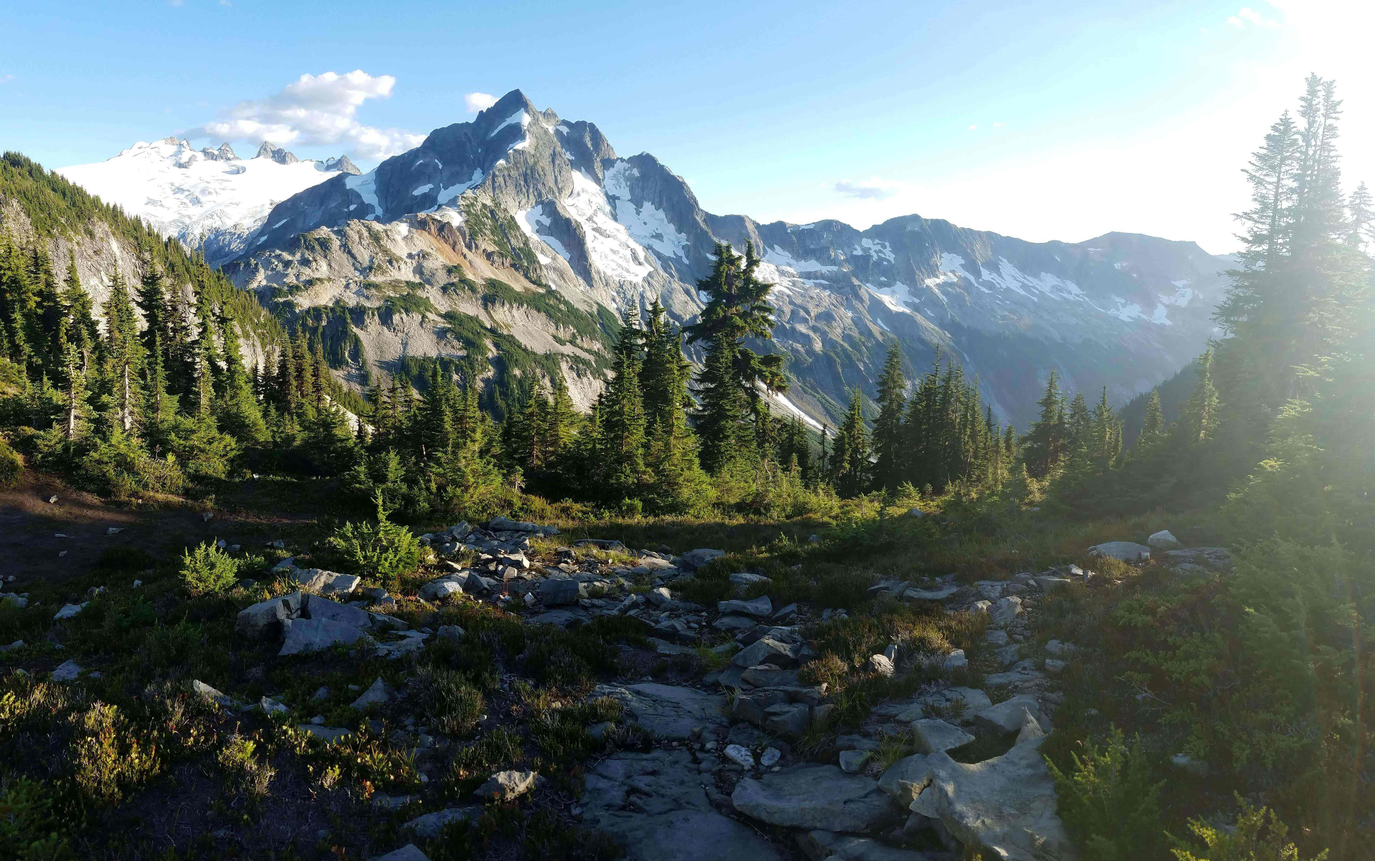
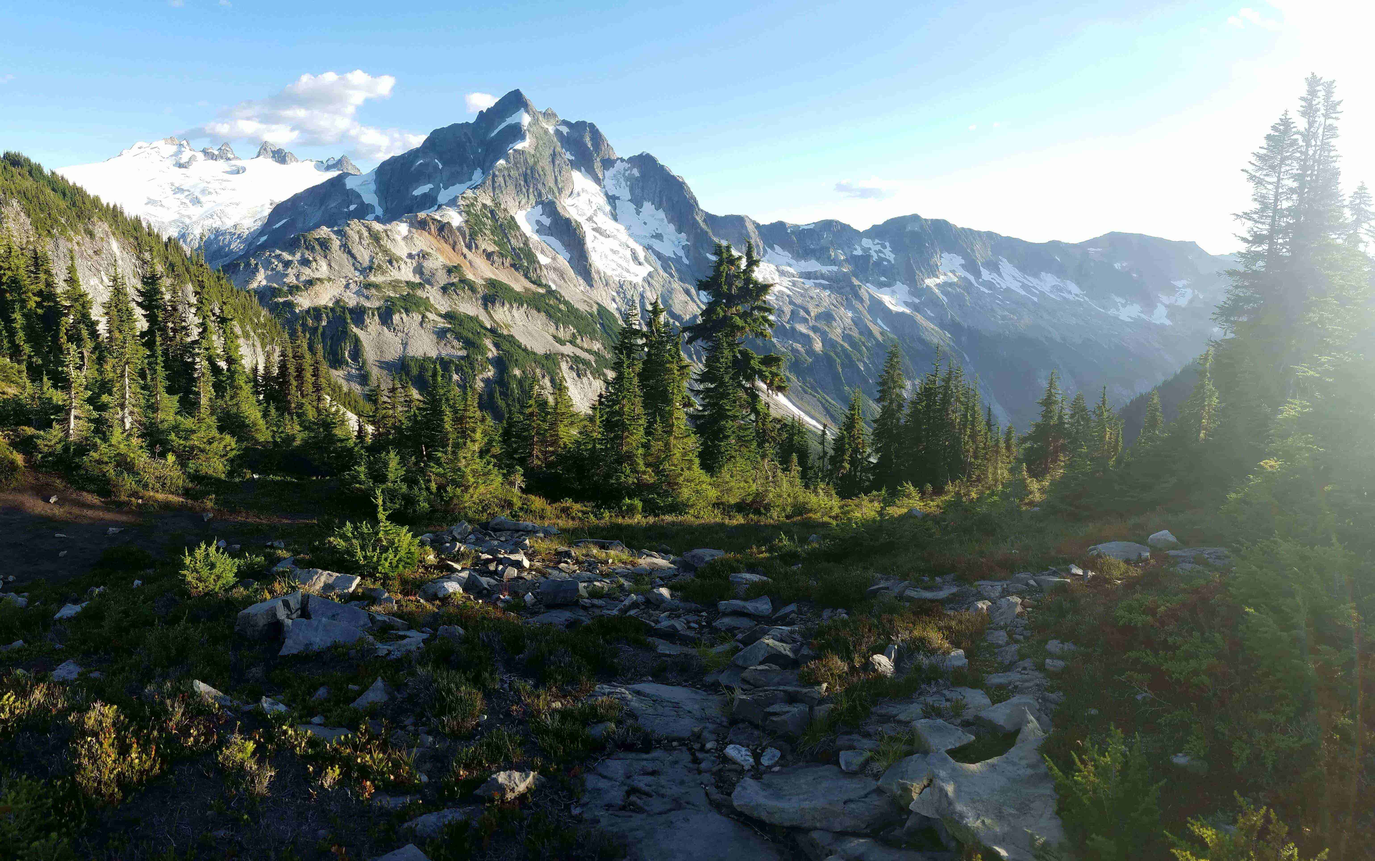
image background resolution changed

diff --git a/src/redux/store/background-img.js b/src/redux/store/background-img.js
@@ -1,11 +1,13 @@
 const IMGS_DATA = [
   "./img/img-background/photo0.jpg",
-  "./img/img-background/photo1.jpg",
-  "./img/img-background/photo2.jpg",
-  "./img/img-background/photo3.jpg",
-  "./img/img-background/photo4.jpg",
-  "./img/img-background/photo5.jpg",
-  "./img/img-background/photo6.jpg",
-  "./img/img-background/photo7.jpg",
+  "./img/img-background/venice.jpg",
+  "./img/img-background/peles-castle.jpg",
+  "./img/img-background/romania-mount.jpg",
+  "./img/img-background/aleppo.jpg",
+  "./img/img-background/photo9.jpg",
+  "./img/img-background/photo10.jpg",
+  "./img/img-background/photo11.jpg",
+  "./img/img-background/laurel-kiev.jpg",
+  "./img/img-background/sunset-floripa.jpg",
 ];
 export default IMGS_DATA;

diff --git a/src/components/intro/landing/landing.component.js b/src/components/intro/landing/landing.component.js
@@ -25,9 +25,9 @@ const Landing = () => {
   };
 
   let imgStyle = {
-    backgroundImage: `linear-gradient(
-            rgba(0, 0, 0, 0.2),
-            rgba(0, 0, 0, 0.6)
+    backgroundImage: `linear-gradient(to left bottom,
+            rgba(0, 0, 0, 0.1),
+            rgba(0, 0, 0, 0.7)
           ), url("${Urls[img]}")`,
   };
 
